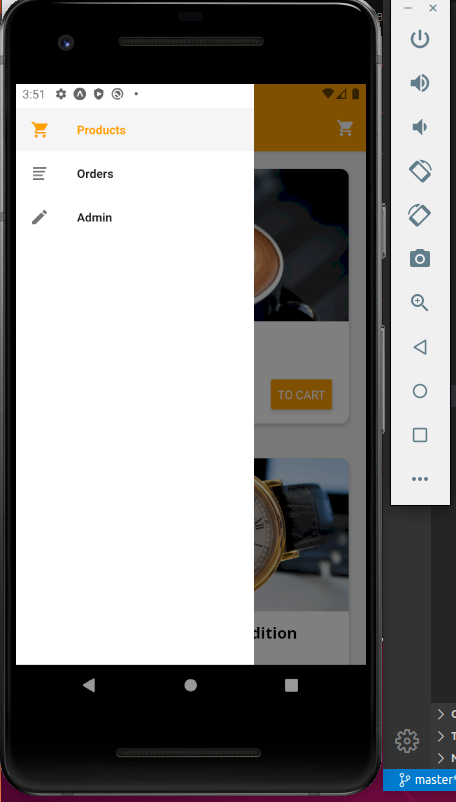
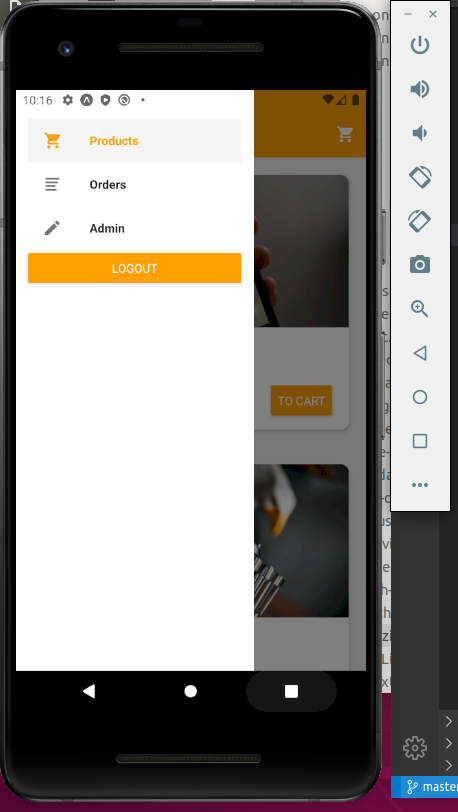
add auto logout

diff --git a/react-native-shop-app/store/actions/authActions.js b/react-native-shop-app/store/actions/authActions.js
@@ -1,13 +1,18 @@
-import { SIGNUP, LOGIN, AUTHENTICATE } from "../../types";
+import { SIGNUP, LOGIN, AUTHENTICATE, LOGOUT } from "../../types";
 import { AsyncStorage } from "react-native";
 
-export const authenticate = (userId, token) => {
-  return {
-    type: AUTHENTICATE,
-    userId: userId,
-    token: token,
+export const authenticate = (userId, token, expiryTime) => {
+  return (dispatch) => {
+    dispatch(setLogoutTimer(expiryTime));
+    dispatch({
+      type: AUTHENTICATE,
+      userId: userId,
+      token: token,
+    });
   };
 };
+
+let timer;
 
 export const signup = (email, password) => {
   return async (dispatch) => {
@@ -47,7 +52,13 @@ export const signup = (email, password) => {
       //   userId: resData.localId,
       // });
 
-      dispatch(authenticate(resData.localId, resData.idToken));
+      dispatch(
+        authenticate(
+          resData.localId,
+          resData.idToken,
+          parseInt(resData.expiresIn) * 1000
+        )
+      );
       const expirationDate = new Date(
         new Date().getTime() + parseInt(resData.expiresIn) * 1000
       );
@@ -97,7 +108,13 @@ export const login = (email, password) => {
       //   token: resData.idToken,
       //   userId: resData.localId,
       // });
-      dispatch(authenticate(resData.localId, resData.idToken));
+      dispatch(
+        authenticate(
+          resData.localId,
+          resData.idToken,
+          parseInt(resData.expiresIn) * 1000
+        )
+      );
       const expirationDate = new Date(
         new Date().getTime() + parseInt(resData.expiresIn) * 1000
       );
@@ -106,6 +123,24 @@ export const login = (email, password) => {
       // send to custom analytics server
       throw err;
     }
+  };
+};
+
+export const logout = () => {
+  clearLogoutTimer();
+  AsyncStorage.removeItem("userData");
+  return { type: LOGOUT };
+};
+
+const clearLogoutTimer = () => {
+  clearTimeout(timer);
+};
+
+const setLogoutTimer = (expirationTime) => {
+  return (dispatch) => {
+    timer = setTimeout(() => {
+      dispatch(logout());
+    }, expirationTime);
   };
 };
 

diff --git a/react-native-shop-app/navigation/ShopNavigator.js b/react-native-shop-app/navigation/ShopNavigator.js
@@ -1,11 +1,13 @@
 import React from "react";
 import { createAppContainer, createSwitchNavigator } from "react-navigation";
 import { createStackNavigator } from "react-navigation-stack";
-import { createDrawerNavigator } from "react-navigation-drawer";
+import { createDrawerNavigator, DrawerItems } from "react-navigation-drawer";
 
-import { Platform } from "react-native";
+import { Platform, SafeAreaView, Button, View } from "react-native";
 
 import Colors from "../constants/Colors";
+import { useDispatch } from "react-redux";
+import * as authActions from "../store/actions/authActions";
 
 import ProductsOverviewScreen from "../screens/shop/ProductsOverviewScreen.js";
 import ProductDetailScreen from "../screens/shop/ProductDetailScreen.js";
@@ -99,6 +101,24 @@ const ShopNavigator = createDrawerNavigator(
   {
     contentOptions: {
       activeTintColor: Colors.primary,
+    },
+    contentComponent: (props) => {
+      const dispatch = useDispatch();
+      return (
+        <View style={{ flex: 1, padding: 15, marginTop: 15 }}>
+          <SafeAreaView forceInset={{ top: "always", horizontal: "never" }}>
+            <DrawerItems {...props} />
+            <Button
+              title="Logout"
+              color={Colors.primary}
+              onPress={() => {
+                dispatch(authActions.logout());
+                // props.navigation.navigate("Auth");
+              }}
+            />
+          </SafeAreaView>
+        </View>
+      );
     },
   }
 );

diff --git a/react-native-shop-app/screens/StartupScreen.js b/react-native-shop-app/screens/StartupScreen.js
@@ -17,7 +17,7 @@ const StartupScreen = (props) => {
   useEffect(() => {
     const tryLogin = async () => {
       // get login data from local storatge;
-      const userData = await AsyncStorage.getItem("userData");
+      const userData = await AsyncStorage.getItem("userData"); 
 
       if (!userData) {
         props.navigation.navigate("Auth");
@@ -31,8 +31,11 @@ const StartupScreen = (props) => {
         props.navigation.navigate("Auth");
         return;
       }
+
+      const expirationTime = expirationDate.getTime() - new Date().getTime();
+
       props.navigation.navigate("Shop");
-      dispatch(authActions.authenticate(userId, token));
+      dispatch(authActions.authenticate(userId, token, expirationTime));
     };
     tryLogin();
   }, [dispatch]);

diff --git a/react-native-shop-app/App.js b/react-native-shop-app/App.js
@@ -10,12 +10,12 @@ import productsReducer from "./store/reducers/productsReducer";
 import cartReducer from "./store/reducers/cartReducer";
 import orderReducer from "./store/reducers/orderReducer";
 import authReducer from "./store/reducers/authReducer";
-import ShopNavigator from "./navigation/ShopNavigator";
+import NavigationContainer from "./navigation/NavigationContainer";
 
 const rootReducer = combineReducers({
   products: productsReducer,
   cart: cartReducer,
-  orders: orderReducer, 
+  orders: orderReducer,
   auth: authReducer,
 });
 
@@ -46,7 +46,7 @@ export default function App() {
 
   return (
     <Provider store={store}>
-      <ShopNavigator />
+      <NavigationContainer />
     </Provider>
   );
 }

diff --git a/react-native-shop-app/store/reducers/authReducer.js b/react-native-shop-app/store/reducers/authReducer.js
@@ -1,4 +1,4 @@
-import { SIGNUP, LOGIN, AUTHENTICATE } from "../../types";
+import { SIGNUP, LOGIN, AUTHENTICATE, LOGOUT } from "../../types";
 
 const initialState = {
   token: null,
@@ -12,6 +12,8 @@ export default (state = initialState, action) => {
         token: action.token,
         userId: action.userId,
       };
+    case LOGOUT:
+      return initialState;
     // case LOGIN:
     //   return {
     //     token: action.token,
@@ -20,7 +22,7 @@ export default (state = initialState, action) => {
     // case SIGNUP:
     //   return {
     //     token: action.token,
-    //     userId: action.userId, 
+    //     userId: action.userId,
     //   };
     default:
       return state;

diff --git a/react-native-shop-app/navigation/NavigationContainer.js b/react-native-shop-app/navigation/NavigationContainer.js
@@ -1,0 +1,21 @@
+import React, { useEffect, useRef } from "react";
+import ShopNavigator from "./ShopNavigator";
+import { useSelector } from "react-redux";
+import { NavigationActions } from "react-navigation";
+
+const NavigationContainer = (props) => {
+  const navRef = useRef();
+  const isAuth = useSelector((state) => !!state.auth.token);
+
+  useEffect(() => {
+    if (!isAuth) {
+      // ShopNavigator has dispatch() method
+      navRef.current.dispatch(
+        NavigationActions.navigate({ routeName: "Auth" })
+      );
+    }
+  }, [isAuth]);
+  return <ShopNavigator ref={navRef} />;
+};
+
+export default NavigationContainer;

diff --git a/react-native-shop-app/types.js b/react-native-shop-app/types.js
@@ -12,3 +12,4 @@ export const INPUT_FOCUS = "INPUT_FOCUS";
 export const SIGNUP = "SIGNUP";
 export const LOGIN = "LOGIN";
 export const AUTHENTICATE = "AUTHENTICATE";
+export const LOGOUT = "LOGOUT";

diff --git a/react-native-shop-app/constants/Colors.js b/react-native-shop-app/constants/Colors.js
@@ -1,4 +1,4 @@
 export default {
   primary: "#ffa000",
-  accent: "#616161",
+  accent: "#0097a7",
 };
